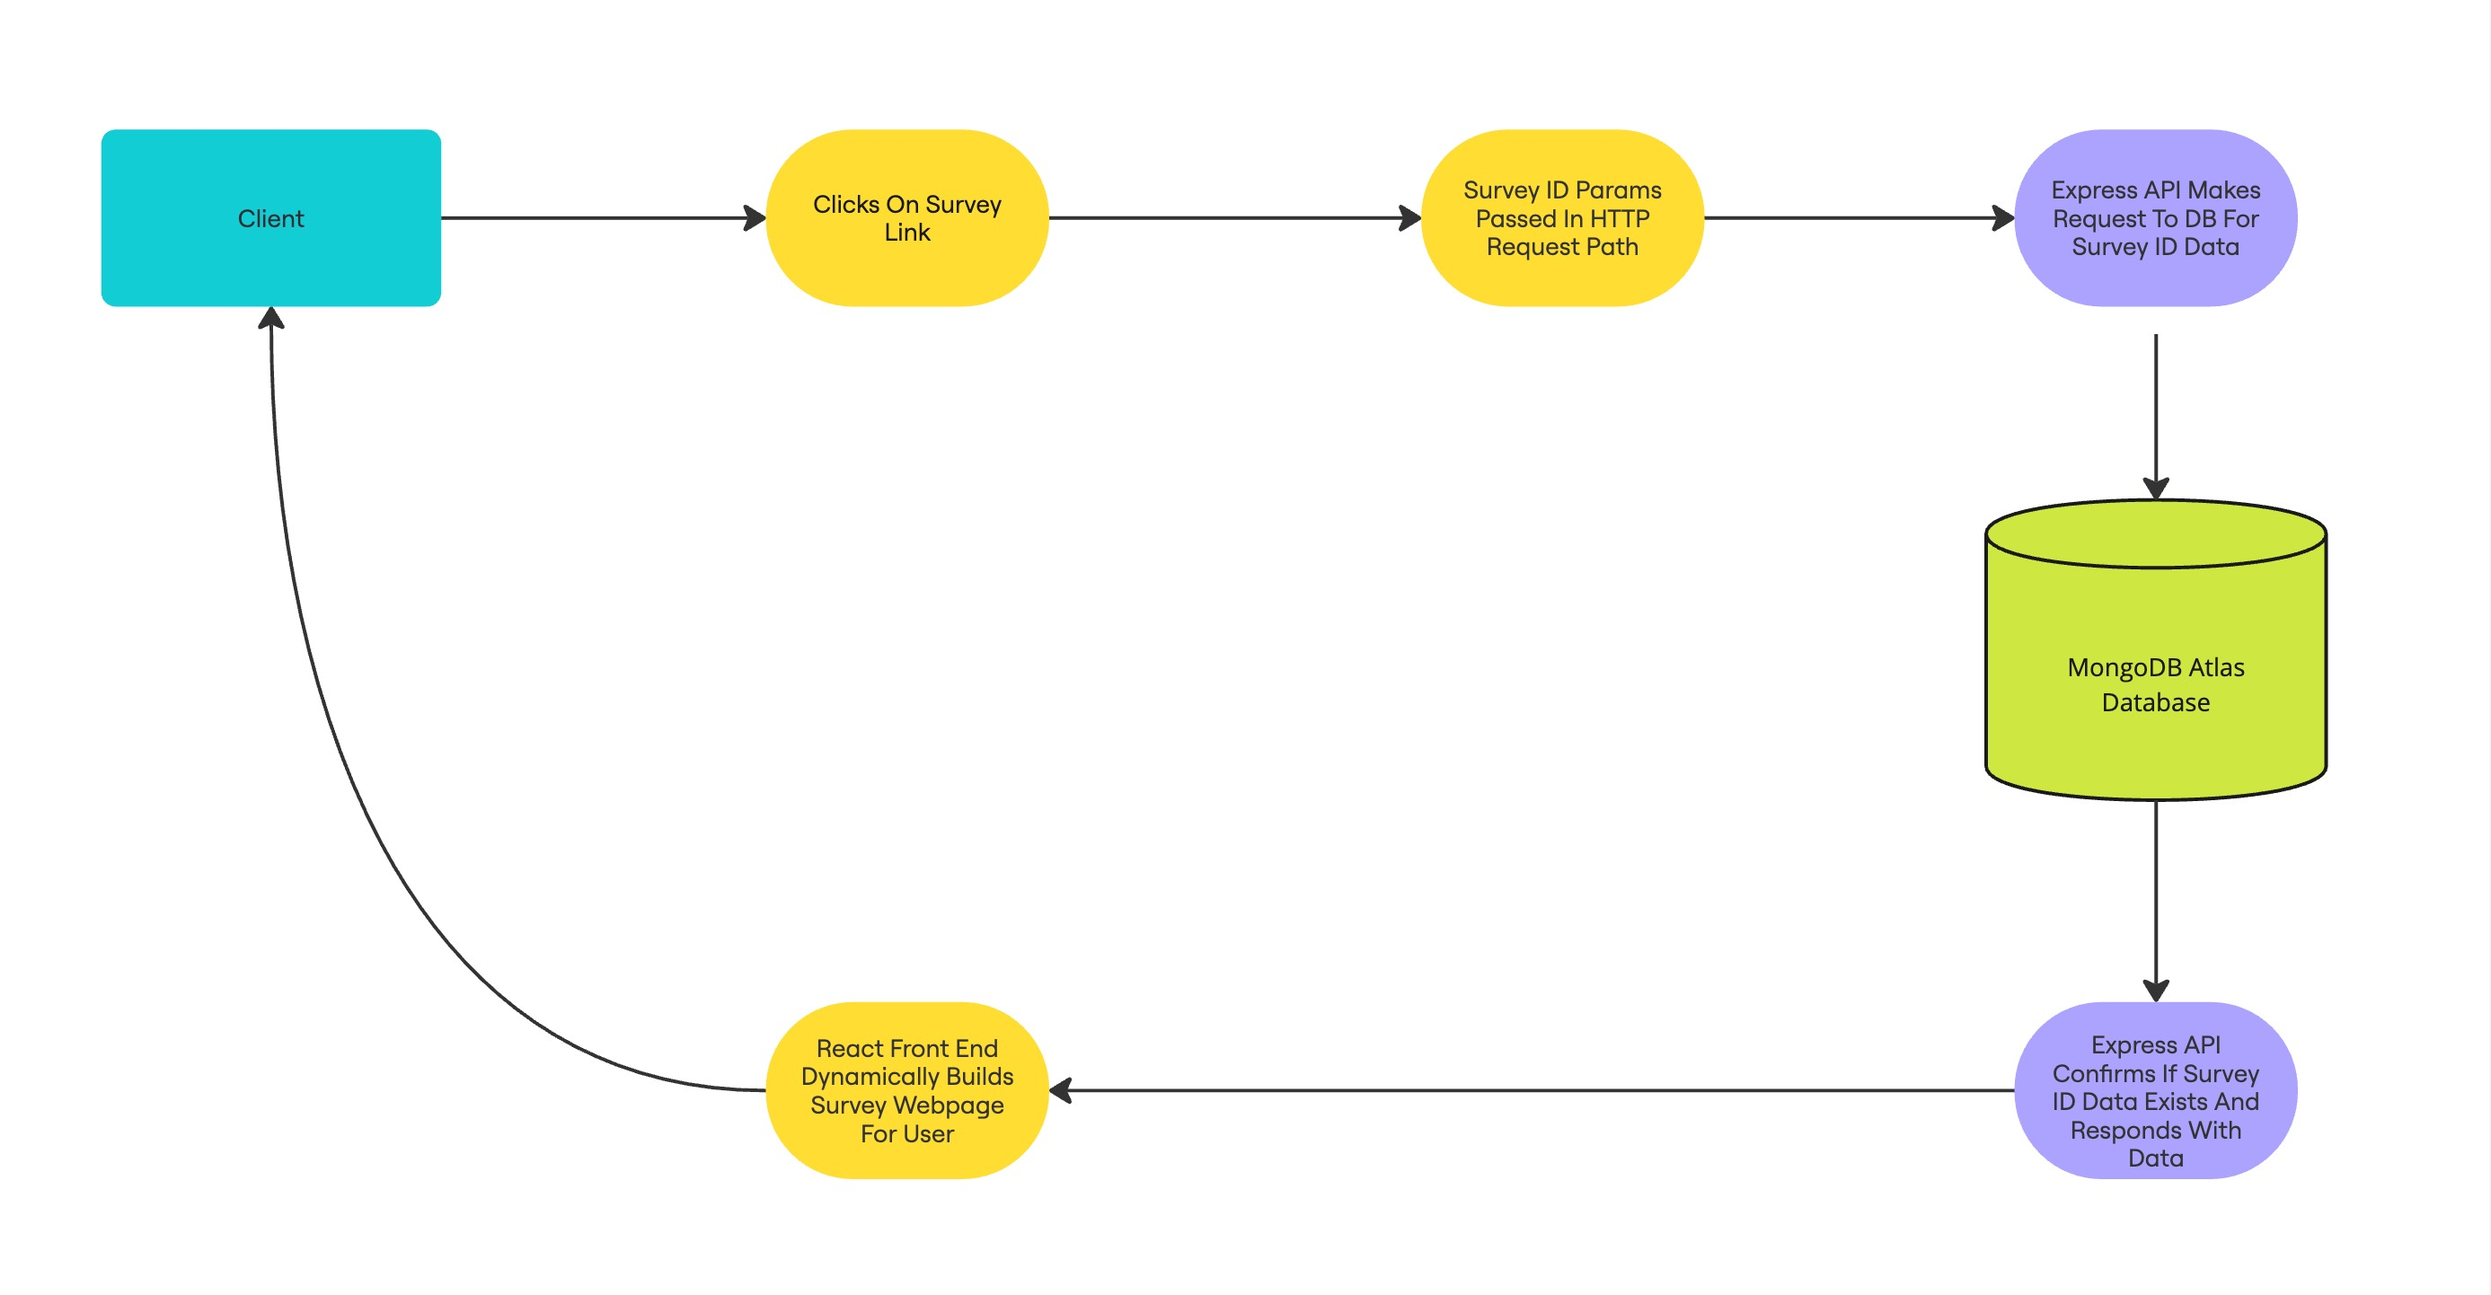
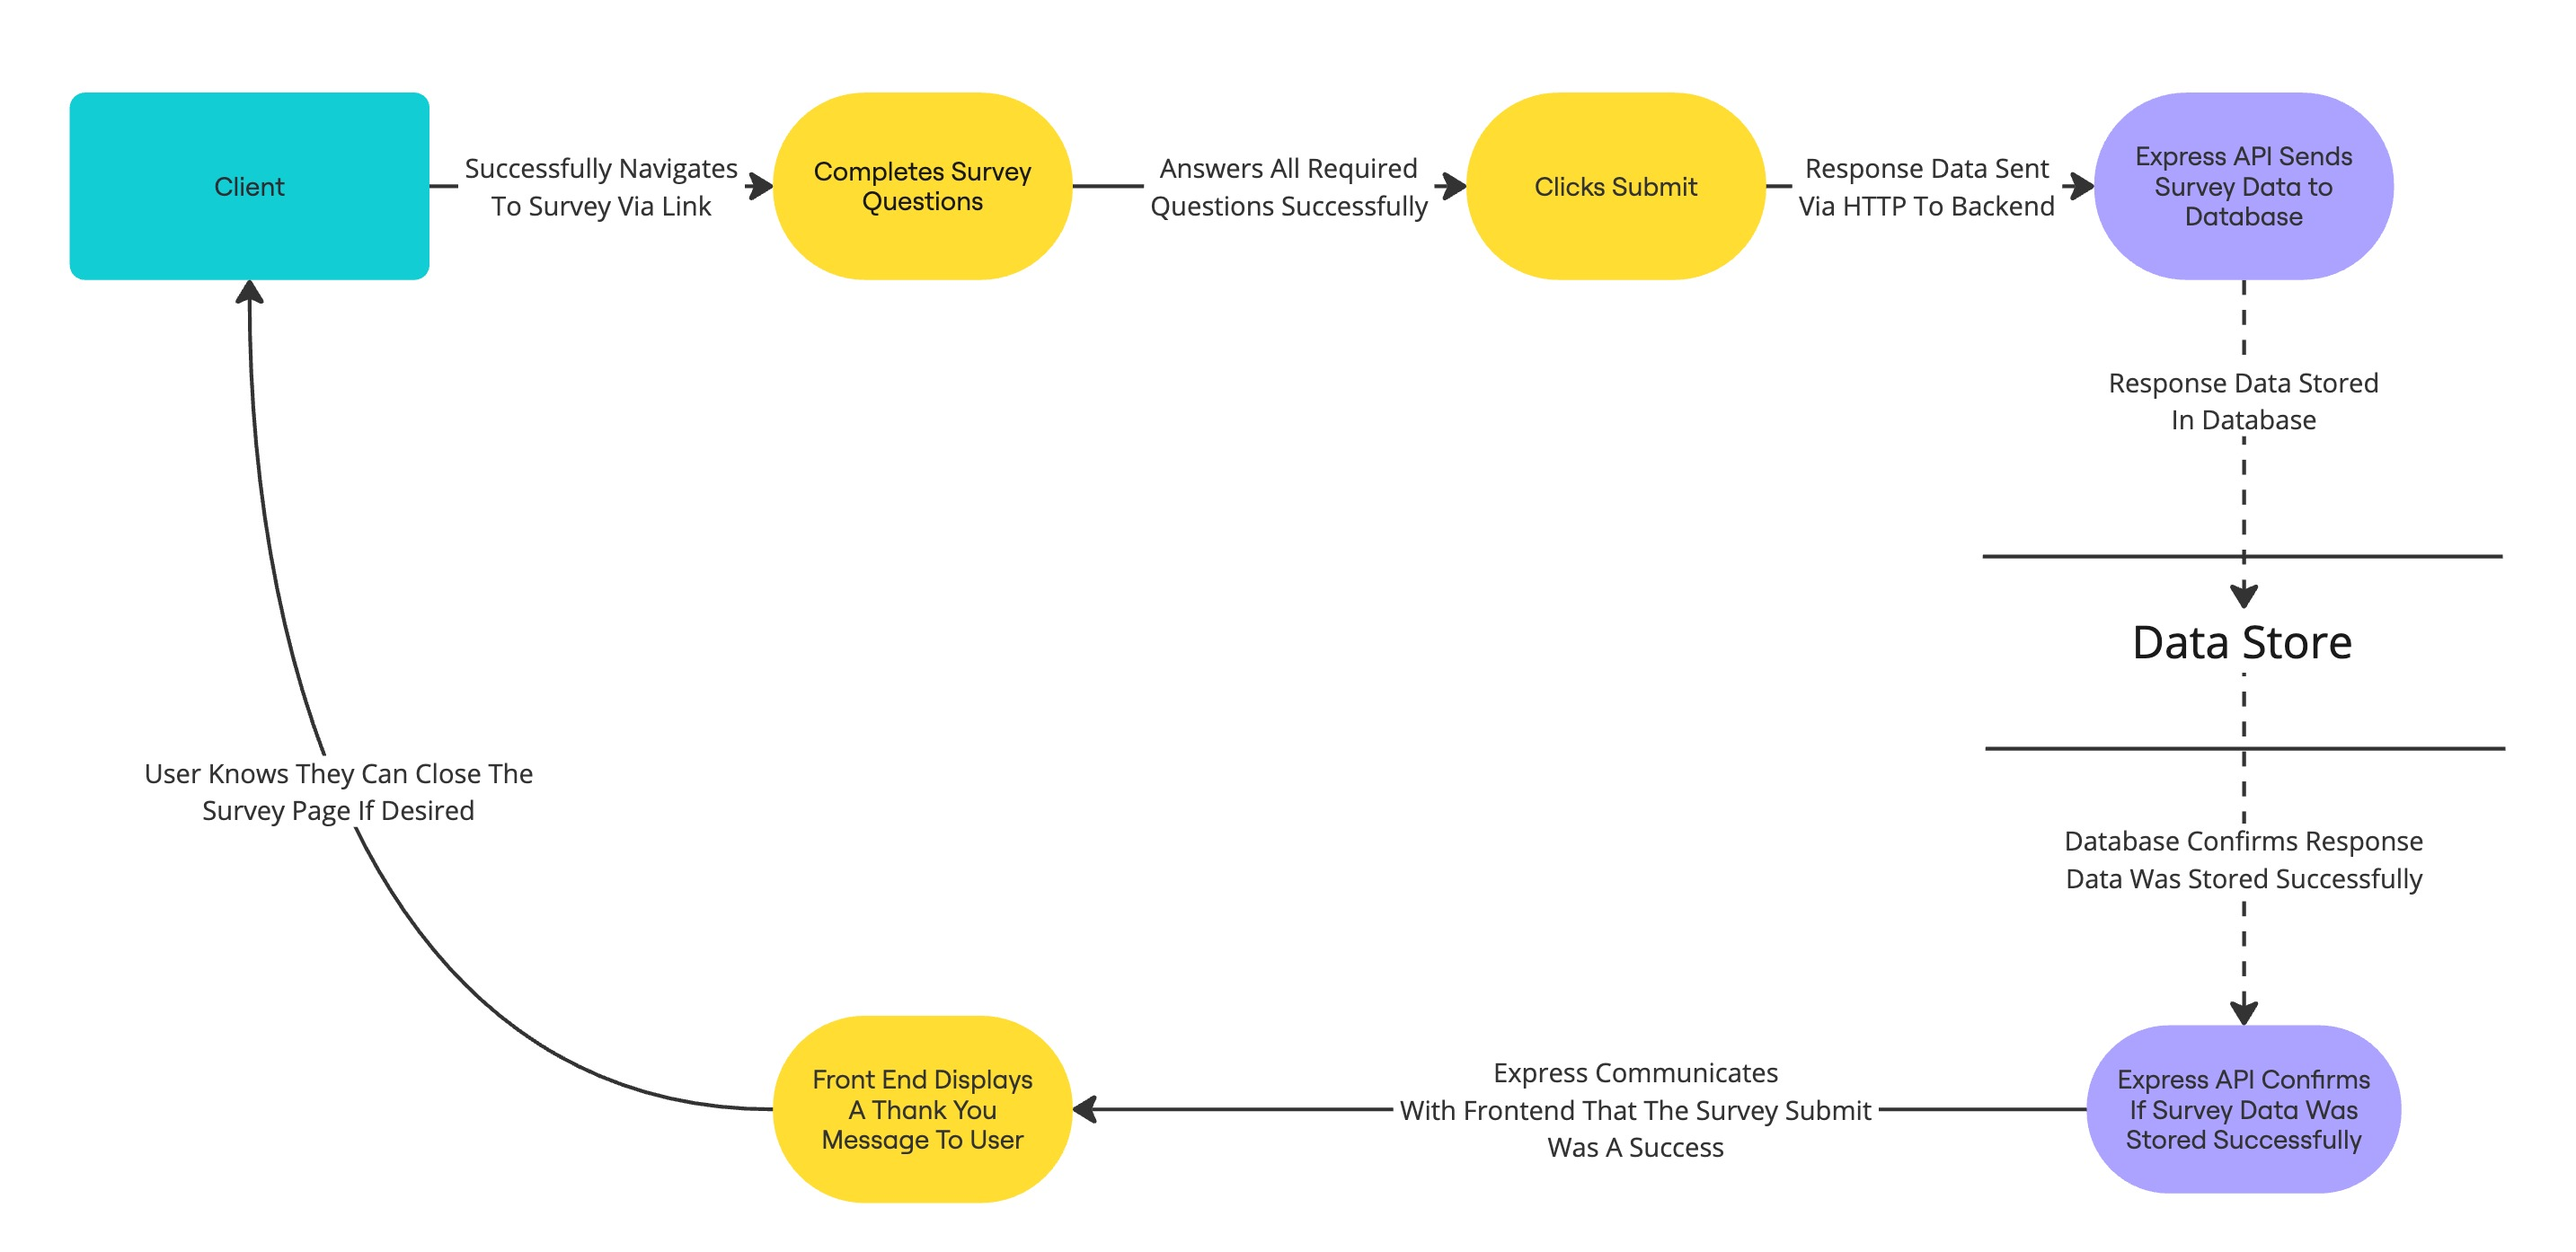
docs: replaced data flow charts with DFD that follow conventions

diff --git a/README.md b/README.md
@@ -328,17 +328,11 @@ Breakdown of Processes in the Survey Application:
 
 ![Level 2 New Survey and Link DFD](./images/DFDLevel2.drawio.png)
 
-## Flow Charts
-
-\*DFD's were initally made using the flow chart symbols.
-
-**Flow Chart Legend**
-
-![Flow Chart Legend](./images/DataFlow_Legend.jpg)
+## Further Data Flow Diagrams
 
 #### High Level Flow Chart Diagram
 
-![High Level Flow Chart](./images/HL_Flowchart.jpg)
+![High Level Data Flow Diagram](./images/Dataflow_highlevel.jpg)
 
 #### Level 1 Flow Chart Diagram
 
